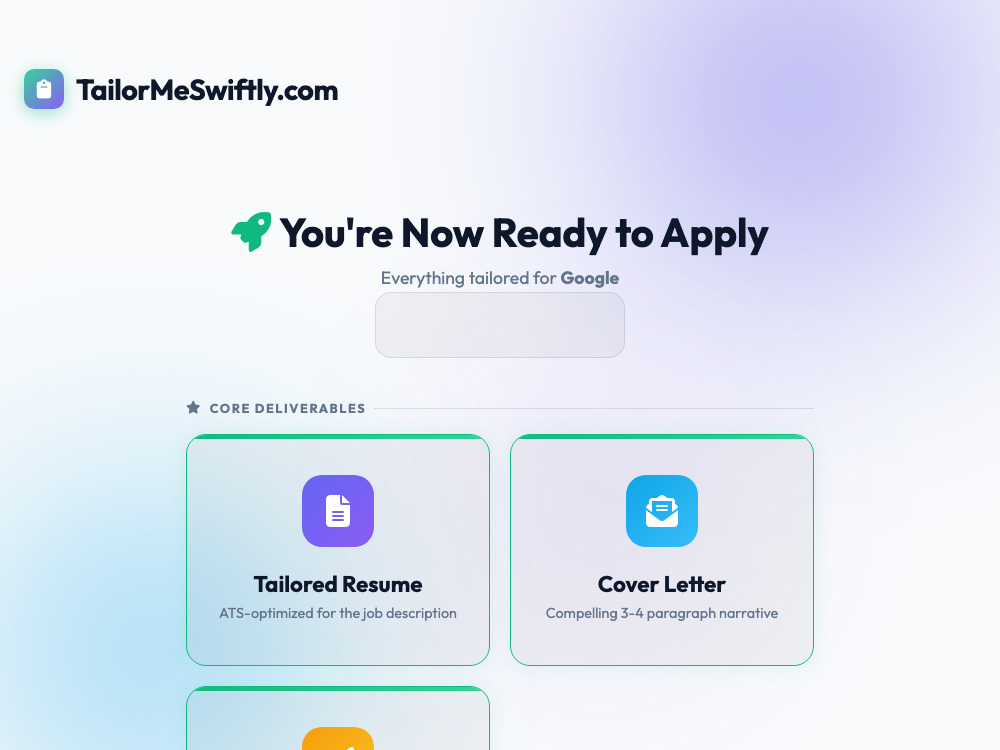
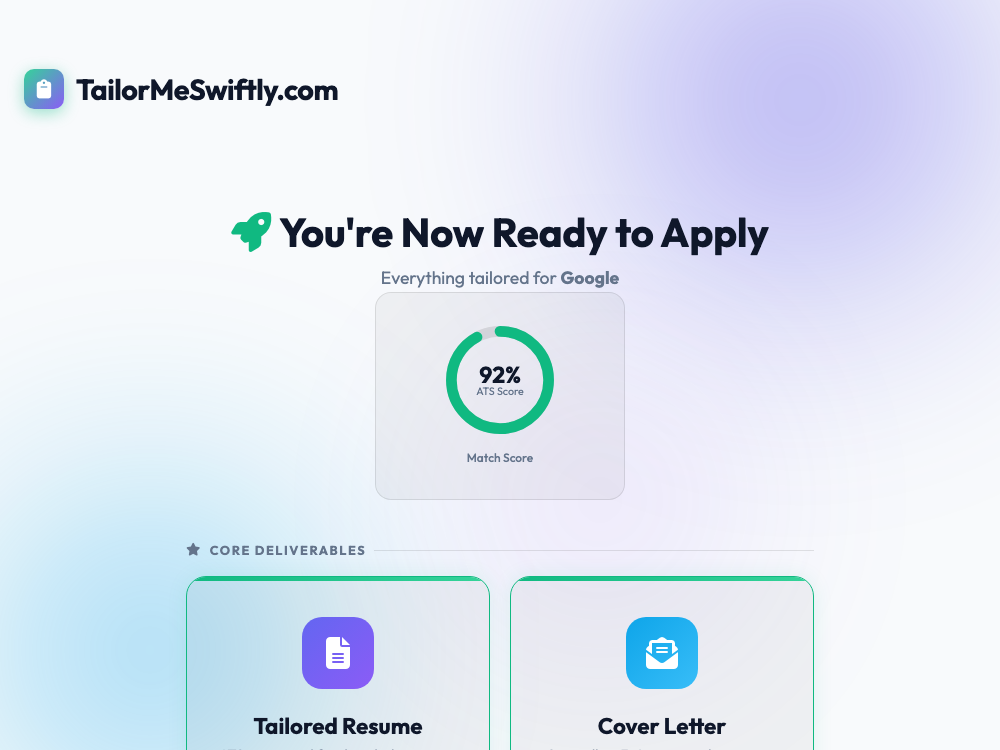
deploy: stevenszopinski-gif/Tailor-Me-Swiftly@65ed858163d392e9ffa93ae1dc51d6fbf6467f1c

diff --git a/snap_all.js b/snap_all.js
@@ -1,0 +1,141 @@
+const { chromium } = require('playwright');
+const { spawn } = require('child_process');
+
+async function run() {
+    const server = spawn('npx', ['serve', '.', '-l', '8083']);
+    await new Promise(r => setTimeout(r, 4000));
+
+    const browser = await chromium.launch();
+    const page = await browser.newPage({
+        viewport: { width: 1000, height: 750 },
+        colorScheme: 'light'
+    });
+
+    // Automatically dismiss any unexpected alerts/dialogs (like "Invalid JWT")
+    page.on('dialog', async dialog => {
+        console.log('Dismissing dialog:', dialog.message());
+        await dialog.dismiss();
+    });
+
+    // CRITICAL FIX: Inject authentication mocks before the page loads
+    // This physically intercepts the auth redirect loop in guardToolAccess
+    await page.addInitScript(() => {
+        window.guardToolAccess = async () => true;
+        window.checkToolAccess = async () => ({ allowed: true });
+        window.waitForSupabaseAuth = async () => ({ id: "mock-user-id", email: "mock@example.com" });
+
+        // Stub window.alert just in case some sync script tries to call it before Playwright catches it
+        window.alert = () => { };
+    });
+
+    const mockOutputs = {
+        targetCompany: "Google",
+        jobText: "Senior Developer",
+        resumeHtml: "<h2>Senior Developer</h2><p>Specialized in React and Node.js</p>",
+        coverHtml: "<p>Dear Hiring Manager,</p><p>I am thrilled to apply for the Senior Developer role at Google...</p>",
+        roastLines: ["Your summary is too general.", "Great use of metrics in the middle sections."],
+        redFlags: [{ severity: 'critical', flag: 'Missing 4 skills', fix: 'Add Kubernetes to your skills' }],
+        burnoutCheck: { flightRiskScore: 85, toxicityScore: 7.2 },
+        matchScore: 92,
+        interviewQa: "Q: Tell me about yourself.\nA: I am an engineer...",
+        emailText: "Hi, I just applied...",
+        missingKeywords: ["Kubernetes", "gRPC"],
+        skillsData: { present: ["React", "Node"], missing: ["AWS"] }
+    };
+
+    async function snap(urlPath, filename, evaluateFn, scrollY = 0) {
+        console.log('Snapping', urlPath, '->', filename);
+        await page.goto(`http://localhost:8083/${urlPath}`, { waitUntil: 'domcontentloaded' });
+
+        await page.evaluate((data) => {
+            sessionStorage.setItem('tms_outputs', JSON.stringify(data));
+        }, mockOutputs);
+
+        await page.reload({ waitUntil: 'networkidle' });
+        await page.waitForTimeout(1000); // let animations settle
+
+        if (evaluateFn) {
+            try {
+                await page.evaluate(evaluateFn);
+                await page.waitForTimeout(500); // Wait for scrolls/renders
+            } catch (e) { console.error("Eval failed for", filename, e); }
+        }
+        if (scrollY) {
+            await page.evaluate((y) => window.scrollTo(0, y), scrollY);
+        }
+
+        await page.screenshot({ path: filename });
+    }
+
+    // Main UI screens & Tools
+    await snap('results.html', 'app-mockup.png');
+    await snap('cover-letter.html', 'tool-cover-letter.png');
+    await snap('outreach.html', 'tool-intro-email.png');
+
+    await snap('results.html', 'tool-heatmap.png', () => { window.scrollTo(0, 0); });
+    await snap('results.html', 'tool-roast.png', () => { const el = document.getElementById('roast-lines'); if (el) el.scrollIntoView({ behavior: 'instant', block: 'center' }); });
+    await snap('results.html', 'tool-redflag.png', () => { const el = document.getElementById('redflag-lines'); if (el) el.scrollIntoView({ behavior: 'instant', block: 'center' }); });
+    await snap('prove-it.html', 'tool-prove-it.png');
+    await snap('video-intro.html', 'tool-video-intro.png');
+
+    await snap('toxic-radar.html', 'tool-toxic.png', async () => {
+        const input = document.querySelector('#company-input');
+        if (input) input.value = 'WeWork';
+        const btn = Array.from(document.querySelectorAll('button')).find(b => b.textContent.includes('Analyze Culture'));
+        if (btn) btn.click();
+        await new Promise(r => setTimeout(r, 1500));
+    });
+
+    await snap('ghosting-predictor.html', 'tool-ghosting.png');
+    await snap('results.html', 'tool-burnout.png', () => { const el = document.getElementById('burnout-content'); if (el) el.scrollIntoView({ behavior: 'instant', block: 'center' }); });
+
+    await snap('comp-decoder.html', 'tool-comp.png', async () => {
+        const in1 = document.querySelector('#tc-input');
+        if (in1) in1.value = '150000';
+        const in2 = document.querySelector('#equity-input');
+        if (in2) in2.value = '50000';
+        const btn = Array.from(document.querySelectorAll('button')).find(b => b.textContent.includes('Decode Offer'));
+        if (btn) btn.click();
+        await new Promise(r => setTimeout(r, 1500));
+    });
+
+    await snap('day-in-life.html', 'tool-day.png');
+    await snap('skills-tracker.html', 'tool-skills.png');
+
+    await snap('interview-prep.html', 'tool-mock.png', async () => {
+        const btn = Array.from(document.querySelectorAll('button')).find(b => b.textContent.includes('Start'));
+        if (btn) btn.click();
+        await new Promise(r => setTimeout(r, 500));
+    });
+
+    await snap('salary-negotiator.html', 'tool-salary.png', async () => {
+        const btn = Array.from(document.querySelectorAll('button')).find(b => b.textContent.includes('Start'));
+        if (btn) btn.click();
+        await new Promise(r => setTimeout(r, 1500)); // wait for AI response
+    });
+
+    await snap('tech-screen.html', 'tool-trial.png');
+    await snap('reverse-interview.html', 'tool-reverse.png');
+    await snap('thank-you.html', 'tool-thank.png');
+    await snap('auto-app.html', 'tool-auto.png');
+    await snap('shadow-jobs.html', 'tool-shadow.png');
+    await snap('referral-mapper.html', 'tool-referral.png');
+    await snap('guerrilla-tactics.html', 'tool-guerrilla.png');
+    await snap('rejection-reverser.html', 'tool-rejection.png');
+
+    // PILLARS 2 & 3
+    await snap('learn/index.html', 'learning-mockup.png');
+    await snap('news/briefing.html', 'news-mockup.png', () => {
+        const playerArea = document.querySelector('.bottom-player-area');
+        if (playerArea) {
+            playerArea.style.display = 'block';
+            playerArea.style.transform = 'translateY(0)';
+            playerArea.classList.add('visible');
+        }
+    });
+
+    await browser.close();
+    server.kill();
+    console.log("All tool screenshots captured with Auth bypassed.");
+}
+run();
